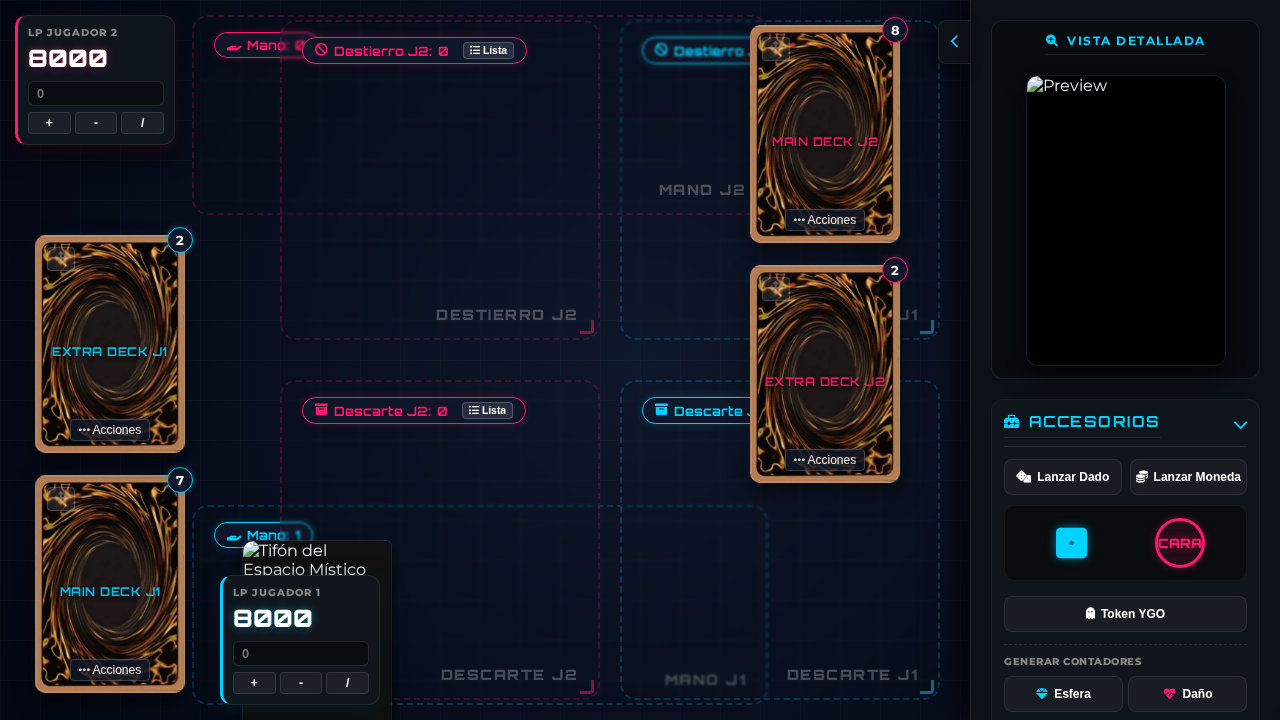
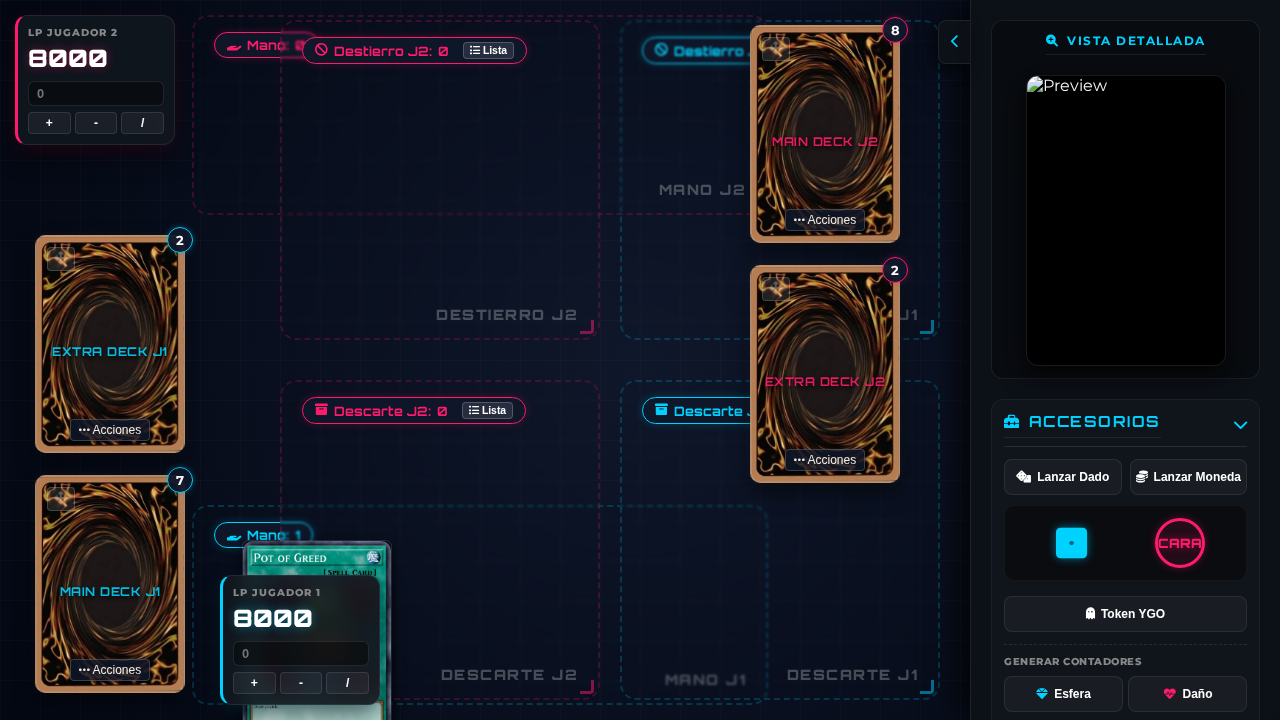
feat: auto flip hand cards and add neon flash effect activation triggers

Changed region(s): [[0.1875, 0.7333, 0.3125, 1.0]]

diff --git a/docs/js/magic.js b/docs/js/magic.js
@@ -309,8 +309,15 @@ function createPileElement($parent, id, label, x, y, owner, type) {
                 if (dragCard) {
                     $(`#${dragCard.id}`).removeClass("dragging");
                     $(".magic-landing-zone").removeClass("drag-over");
+
+                    // Automatically flip card face-up if dropped inside J1 or J2 Hand zones!
+                    const currentZone = getCardCurrentZone(dragCard);
+                    if (currentZone === "hand_p1" || currentZone === "hand_p2") {
+                        dragCard.faceUp = true;
+                    }
+
                     updateLandingZoneCounts();
-                    renderAllCards(); // Recalculate size instantly in real-time!
+                    renderAllCards(); // Re-render instantly on mouse up to recalculate card sizes!
                 }
                 dragCard = null;
                 $(document).off(".carddrag");
@@ -472,7 +479,7 @@ function drawCards(owner, amount) {
             desc: cardData.desc || "",
             x: cardX,
             y: targetY,
-            faceUp: (owner === "player1" || state.layout === "pokemon"), // Pokemon is always faceup in sandbox
+            faceUp: true, // Automatically flip cards face-up in the hand!
             tapped: false,
             counters: { glass: 0, poke: 0 },
             owner: owner,
@@ -592,7 +599,7 @@ $(document).on("click", ".search-to-hand", function(e) {
         desc: cardData.desc || "",
         x: targetX,
         y: targetY,
-        faceUp: true,
+        faceUp: true, // Automatically flip cards face-up in hand!
         tapped: false,
         counters: { glass: 0, poke: 0 },
         owner: owner,
@@ -763,7 +770,7 @@ function bindBatchSelectionHandlers() {
                 desc: cardData.desc || "",
                 x: targetX,
                 y: targetY,
-                faceUp: true,
+                faceUp: true, // Automatically flip cards face-up in hand!
                 tapped: false,
                 counters: { glass: 0, poke: 0 },
                 owner: item.owner,
@@ -867,6 +874,12 @@ function setupCardInteractions() {
                 if (distance < 8 && duration < 250) {
                     // Click trigger: show card sidebar preview & toggle orientation parameters
                     updatePreview(dragCard);
+                }
+
+                // Automatically flip card face-up if dropped inside J1 or J2 Hand zones!
+                const currentZone = getCardCurrentZone(dragCard);
+                if (currentZone === "hand_p1" || currentZone === "hand_p2") {
+                    dragCard.faceUp = true;
                 }
 
                 // Remove landing hover states
@@ -1274,6 +1287,7 @@ function renderAllCards() {
                     <button class="field-action-btn btn-field-set" data-id="${card.id}">Set</button>
                     <button class="field-action-btn btn-field-flip" data-id="${card.id}">Voltear</button>
                     <button class="field-action-btn btn-field-tap" data-id="${card.id}">Girar</button>
+                    <button class="field-action-btn btn-field-flash" data-id="${card.id}">Efecto</button>
                 </div>
                 `}
             </div>
@@ -1685,6 +1699,20 @@ $(document).on("click", ".btn-field-tap", function(e) {
     if (card) {
         card.tapped = !card.tapped;
         renderAllCards();
+    }
+});
+
+// Flash Activation visual effects trigger
+$(document).on("click", ".btn-field-flash", function(e) {
+    e.preventDefault();
+    e.stopPropagation();
+    const cardId = $(this).attr("data-id");
+    const $card = $(`#${cardId}`);
+    if ($card.length) {
+        $card.addClass("activating-flash");
+        setTimeout(() => {
+            $card.removeClass("activating-flash");
+        }, 800);
     }
 });
 
